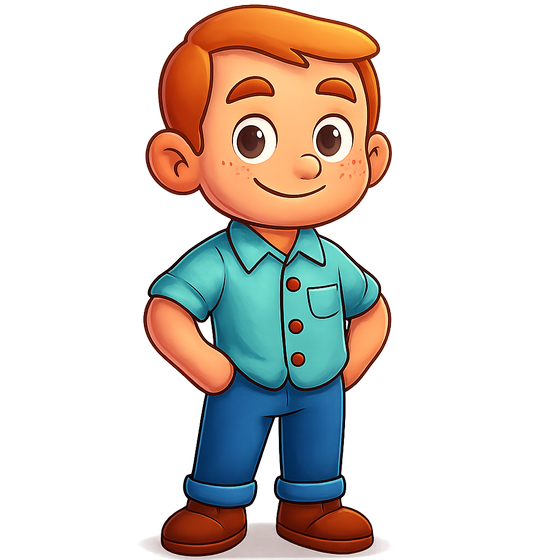
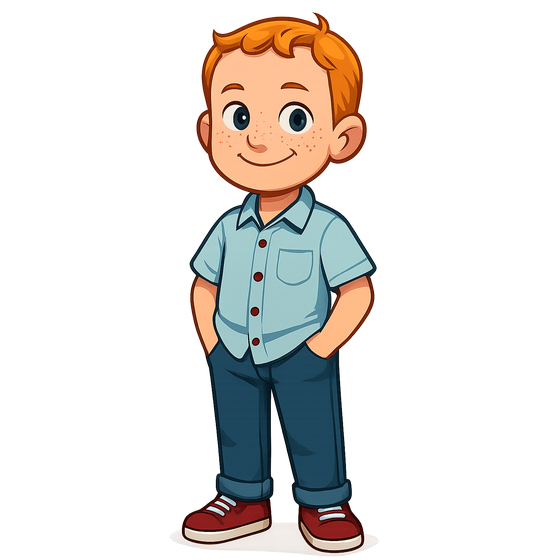
RE-APPLY onto fresh main: map grounding, single Victory CONTINUE, title/rest de-emoji, premium villains, Cal regen (#105)
Recovers the second half of my session work that didn't make it into Neo's reconciliation
(cutscenes intentionally excluded — parent is doing video). Re-applied onto current main,
reconciled with Neo's overlapping changes:
- MAP: FRIEND_SIDE + FRIEND_POS so captive friends stand on grass, not over the river; Cal on
  the painted path LEFT of the bridge (route recalibration was already in main).
- VICTORY: collapse to ONE crafted-chevron CONTINUE button (drop the redundant CITY MAP), reusing
  Neo's #84/#97 play-order nextM; rescued ally shows as the PAINTED raster, ally-only (no hero).
- TITLE/REST: de-emoji PLAY (▶) + "One more mission" (🎯) via crafted play/chevron uiIcons.
- ART: premium Vixen/dragon repaint + photo-accurate Cal regeneration.
Branched off origin/main (no longer stale); tests 115/121/17 green; render-gated.

diff --git a/game.js b/game.js
@@ -600,6 +600,7 @@ document.body.classList.add("scene-ambient");     /* the boot title screen is am
 /* ONE primary action: PLAY → brand-new player gets the origin cutscene→scan→map; a returning
    player resumes on the map. (Replaces START + the duplicate CONTINUE — both only called toMap.)
    Must stay the FIRST user gesture so Aud.pick() unlocks iOS audio. */
+{ const bp=$("btnPlay"); if(bp)bp.innerHTML=(typeof uiIcon==="function"?uiIcon("play",28):"")+" PLAY"; }   /* crafted play triangle, not ▶ */
 $("btnPlay").onclick=()=>{ Aud.pick(); if(!S.intro)startIntro(); else {Aud.play("welcome"); toMap();} };
 /* ---- player picker (select an existing player; add/remove is parent-only) ---- */
 function openPicker(){ paintPicker(); $("playerPicker").classList.add("on"); }
@@ -1533,8 +1534,13 @@ function showWin(firstTime){ show("scrWin");
   const rescuedKind = CUR.rescue ? (LEAGUE.find(t=>t.mid===CUR.id)||{}).kind : null;
   const ally = rescuedKind || (CUR.type==="fortress" ? (currentAct()===2?"kendall":"leighton") : null);
   const allyEnt = ally ? LEAGUE.find(t=>t.kind===ally) : null;
-  $("winHero").innerHTML=heroMarquee(170)+
-    (ally?`<svg viewBox="-32 -36 64 80" width="98" style="vertical-align:bottom;">${allyFace(ally)}<text y="42" text-anchor="middle" font-family="Bangers" font-size="12" fill="#ffc93c">${allyEnt?allyEnt.name:""}</text></svg>`:"");
+  /* On a RESCUE win it's the freed ALLY speaking, so show JUST the ally (their PAINTED raster + name) —
+     no hero Teddy beside them (also removes the hero/ally size mismatch). Every other win shows the hero. */
+  if(ally){
+    const allyArt = (typeof allyRasterImg==="function" && allyRasterImg(ally,200))
+        || `<svg viewBox="-32 -36 64 80" width="150">${allyFace(ally)}</svg>`;
+    $("winHero").innerHTML=`<span class="winally">${allyArt}<span class="winallyname">${allyEnt?allyEnt.name:""}</span></span>`;
+  } else { $("winHero").innerHTML=heroMarquee(170); }
   $("winHero").className="winpose"+(1+Math.floor(Math.random()*4));   /* random victory celebration */
   const gear=GEAR_AT[CUR.id];
   $("winGear").innerHTML=(firstTime&&gear)?`<div class="gearbadge">NEW GEAR: ${gear}</div>`:"";
@@ -1555,27 +1561,24 @@ function showWin(firstTime){ show("scrWin");
   if(__rankedUp){ ids.unshift("rankup"); setTimeout(()=>{ confetti(80); flashScreen("rgba(255,210,90,.4)"); if(typeof Sfx!=="undefined"&&Sfx.rankup)Sfx.rankup(); },340);
     $("winGear").innerHTML='<div class="gearbadge">⭐ RANK UP — '+heroProgress().name+'!</div>'+$("winGear").innerHTML; __rankedUp=false; }
   narrate("win",$("winText"),ids);
-  if(CUR.type==="fortress"){
-    $("btnWinNext").style.display="none";
-    if(currentAct()===2){   /* Act-2 finale = the END → the beat-7 homecoming ending (STORY.md §F) */
-      $("btnWinMap").textContent="CONTINUE ➜";
-      $("btnWinMap").onclick=()=>startHomecoming();
-    } else {                /* Act-1 finale → the Act-1→Act-2 handoff cutscene */
-      $("btnWinMap").textContent="CONTINUE ➜";
-      $("btnWinMap").onclick=()=>startInterlude();
-    }
+  /* ONE button: CONTINUE (parent — the old CITY MAP button was redundant; the map is on the nav).
+     Crafted chevron, never an emoji. Carries the adventure forward. */
+  const setContinue=(fn)=>{ const b=$("btnWinMap"); if(!b)return;
+    b.innerHTML='CONTINUE '+(typeof uiIcon==="function"?uiIcon("chevron",26):""); b.className="btn cta"; b.onclick=fn; };
+  { const bn=$("btnWinNext"); if(bn)bn.style.display="none"; }   /* legacy 2nd button removed from the win screen */
+  if(CUR.type==="fortress"){   /* finale → the story cutscene (Act-1 handoff / Act-2 homecoming ending) */
+    setContinue(currentAct()===2 ? startHomecoming : startInterlude);
     return; }
-  $("btnWinMap").textContent="CITY MAP";
-  /* #84: NEXT follows PLAY ORDER (zones 107/108 append in the 100-range but play AFTER 104), not flat id
-     order — else NEXT could drop the child into an out-of-sequence / locked mission. Mirrors playNextMission(). */
+  /* normal win → next uncompleted level in PLAY ORDER (#84/#97 nextM), honouring the rest gate;
+     falls back to the map when the act is cleared. */
   const pm=playMissions(currentAct()), pix=pm.findIndex(x=>x.id===CUR.id), nextM=(pix>=0)?pm[pix+1]:null;
-  $("btnWinNext").style.display=nextM?"inline-block":"none";
-  $("btnWinNext").onclick=()=>{ if(!nextM)return; if(S.session.count>=3&&!S.session.rest){S.session.rest=true;save();showRest(nextM);} else startMission(nextM); };
-  $("btnWinMap").onclick=()=>{ if(S.session.count>=3&&!S.session.rest){S.session.rest=true;save();showRest(null);} else toMap(); }; }
+  setContinue(()=>{ if(S.session.count>=3 && !S.session.rest){ S.session.rest=true; save(); showRest(nextM); }
+    else if(nextM) startMission(nextM); else toMap(); }); }
 function showRest(nextM){ show("scrRest");
   $("restHero").innerHTML=heroMarquee(160);
   narrate("rest",$("restText"),["rest1","rest2"]);
   $("btnRestDone").onclick=()=>navGo(toMap);   /* Done resting → the MAP (home), not the bare Title (NAV-PLAN slice 4) */
+  { const bm=$("btnRestMore"); if(bm)bm.innerHTML=(typeof uiIcon==="function"?uiIcon("play",22):"")+" One more mission"; }   /* crafted play icon, not 🎯 */
   $("btnRestMore").onclick=()=>{ nextM?startMission(nextM):toMap(); }; }
 
 /* ---------------- HERO BASE ---------------- */

diff --git a/art.js b/art.js
@@ -674,7 +674,11 @@ const UICONS={
   /* power BOLT — the HUD power/stars counter glyph (replaces the ⚡ emoji) */
   bolt:(s=22)=>{const u="ui"+(__huid++);return `<svg viewBox="0 0 100 100" width="${s}" height="${s}" aria-hidden="true"><defs><linearGradient id="${u}b" x1="0" y1="0" x2="0" y2="1"><stop offset="0" stop-color="#fff3b0"/><stop offset=".5" stop-color="#ffd23a"/><stop offset="1" stop-color="#f0a81e"/></linearGradient></defs><path d="M58 6 L24 54 H46 L40 94 L78 40 H54 Z" fill="url(#${u}b)" stroke="${PI_INK}" stroke-width="5" stroke-linejoin="round"/><path d="M54 14 L34 50 H50" stroke="#fff" stroke-width="4" opacity=".5" fill="none" stroke-linecap="round"/></svg>`},
   /* CLOCK — daily-practice meter glyph (replaces any ⏰ emoji); friendly round face + hands */
-  clock:(s=22)=>{const u="ui"+(__huid++);return `<svg viewBox="0 0 100 100" width="${s}" height="${s}" aria-hidden="true"><defs><radialGradient id="${u}c" cx=".42" cy=".34" r=".7"><stop offset="0" stop-color="#eaf7ff"/><stop offset="1" stop-color="#9fd6f5"/></radialGradient></defs><rect x="43" y="5" width="14" height="10" rx="3" fill="${PI_INK}"/><circle cx="50" cy="55" r="40" fill="url(#${u}c)" stroke="${PI_INK}" stroke-width="6"/><circle cx="50" cy="55" r="40" fill="none" stroke="#fff" stroke-width="2.5" opacity=".5"/><path d="M50 55 V31" stroke="${PI_INK}" stroke-width="6.5" stroke-linecap="round"/><path d="M50 55 L69 62" stroke="${PI_INK}" stroke-width="6.5" stroke-linecap="round"/><circle cx="50" cy="55" r="5" fill="${PI_INK}"/></svg>`}
+  clock:(s=22)=>{const u="ui"+(__huid++);return `<svg viewBox="0 0 100 100" width="${s}" height="${s}" aria-hidden="true"><defs><radialGradient id="${u}c" cx=".42" cy=".34" r=".7"><stop offset="0" stop-color="#eaf7ff"/><stop offset="1" stop-color="#9fd6f5"/></radialGradient></defs><rect x="43" y="5" width="14" height="10" rx="3" fill="${PI_INK}"/><circle cx="50" cy="55" r="40" fill="url(#${u}c)" stroke="${PI_INK}" stroke-width="6"/><circle cx="50" cy="55" r="40" fill="none" stroke="#fff" stroke-width="2.5" opacity=".5"/><path d="M50 55 V31" stroke="${PI_INK}" stroke-width="6.5" stroke-linecap="round"/><path d="M50 55 L69 62" stroke="${PI_INK}" stroke-width="6.5" stroke-linecap="round"/><circle cx="50" cy="55" r="5" fill="${PI_INK}"/></svg>`},
+  /* CHEVRON — forward "continue/next" arrow (replaces ➜); inherits the button's text colour */
+  chevron:(s=22)=>`<svg viewBox="0 0 100 100" width="${s}" height="${s}" aria-hidden="true" style="vertical-align:-4px"><path d="M38 20 L70 50 L38 80" fill="none" stroke="currentColor" stroke-width="13" stroke-linecap="round" stroke-linejoin="round"/></svg>`,
+  /* PLAY — solid forward triangle (replaces ▶ on the title/rest buttons); inherits text colour */
+  play:(s=22)=>`<svg viewBox="0 0 100 100" width="${s}" height="${s}" aria-hidden="true" style="vertical-align:-4px"><path d="M30 20 L80 50 L30 80 Z" fill="currentColor" stroke="currentColor" stroke-width="10" stroke-linejoin="round"/></svg>`
 };
 function uiIcon(k,s){ return (UICONS[k]?UICONS[k](s):""); }
 

diff --git a/map.js b/map.js
@@ -163,6 +163,15 @@ function mapBanner(x,y,st,zi){
     <rect x="${x-34}" y="${y-76}" width="68" height="96" fill="transparent"/>
   </g>`;
 }
+/* which side of each node is WALKABLE GRASS (away from the river), so a captive friend is grounded on
+   land — never floating over water. Per act, indexed by node (play order); +1 = right, -1 = left. */
+const FRIEND_SIDE={
+  1:[ 1, 1, 1, 1,-1, 1, 1,-1, 1],   // Act 1: idx4 left of the bridge, idx7 onto the castle ledge
+  2:[-1,-1,-1, 1, 1, 1, 1,-1]       // Act 2: idx0-2 left bank, idx3-6 right bank, idx7 onto the keep path
+};
+/* exact-placement overrides (act → node idx → [x,y] translate) when the side-fan would land a friend
+   awkwardly. Cal's zone node sits at the river crossing → put him on the open grass LEFT of the bridge. */
+const FRIEND_POS={ 2:{ 3:[742,706] } };
 /* CAPTIVE friends waiting AT the zone where they're freed (V2 scale, 1536-space). Once a friend
    is freed (allyFreed) they leave the map — they're in your league now, not stranded on the trail. */
 function mapAlliesV2(a, zs, spots){
@@ -176,10 +185,13 @@ function mapAlliesV2(a, zs, spots){
     const zi=zs.findIndex(z=>z.id===m.z); if(zi<0||!spots[zi]) return;
     (byZi[zi]=byZi[zi]||[]).push(r); });
   let out="";
+  const sides=FRIEND_SIDE[a], posOv=FRIEND_POS[a];
   Object.keys(byZi).forEach(zik=>{ const zi=+zik, [x,y]=spots[zi], list=byZi[zi];
-    const dir = x<768?1:-1;                                     // fan toward the open side of the node
-    list.forEach((r,i)=>{ const fx=x+dir*(60+i*46), fy=y+2+((i%2)?-12:8);
-      out+=`<g class="mfriend" pointer-events="none" transform="translate(${fx} ${fy}) scale(.7)">${allyMapFig(r.kind, false)}</g>`; }); });
+    const dir = (sides && sides[zi]!=null) ? sides[zi] : (x<768?1:-1);   // push onto grass, not over the river
+    const pos = posOv && posOv[zi];
+    list.forEach((r,i)=>{ const fx = pos ? pos[0]+i*46 : x+dir*(56+i*46),
+                          fy = pos ? pos[1] : y+6+((i%2)?-12:8);          // feet just below-beside the banner, on the path
+      out+=`<g class="mfriend" pointer-events="none" transform="translate(${fx} ${fy}) scale(.66)">${allyMapFig(r.kind, false)}</g>`; }); });
   return out;
 }
 function mapPaintV2(a){

diff --git a/styles.css b/styles.css
@@ -579,6 +579,12 @@ body.calm .gembox>svg,body.calm .trophy,body.calm .gembox.mastered::after{animat
 @keyframes ctaFloat{0%,100%{transform:translateY(0)}50%{transform:translateY(-5px)}}
 .btn.cta:active{animation:none;}
 body.calm .btn.cta{animation:none;}
+#scrWin .btn.cta svg{ margin-left:6px; }
+/* rescued-ally painted figure on the Victory screen (raster, not the old SVG face) + name beneath */
+.winally{ display:inline-flex; flex-direction:column; align-items:center; vertical-align:bottom; }
+.winally img{ display:block; filter:drop-shadow(0 7px 6px rgba(0,0,0,.45)); }
+.winallyname{ font-family:'Bangers',cursive; color:var(--gold); font-size:16px; margin-top:-4px; letter-spacing:.04em;
+  -webkit-text-stroke:2px var(--ink); paint-order:stroke; }
 
 /* glass HUD chips + round buttons */
 .chip,.roundbtn{backdrop-filter:blur(10px);-webkit-backdrop-filter:blur(10px);background:rgba(16,10,38,.5);

diff --git a/index.html b/index.html
@@ -85,7 +85,7 @@
     <div class="comic title-logo">SUPER TEDDY</div>
     <div class="sub comic" style="letter-spacing:.12em;">A HERO READS. A HERO RISES.</div>
     <div id="titleHero"></div>
-    <button class="btn cta" id="btnPlay">▶ PLAY</button>
+    <button class="btn cta" id="btnPlay">PLAY</button>
     <button class="btn ghost sm" id="btnPlayer" style="font-size:clamp(16px,2.4vw,22px);"><span id="playerName">Teddy</span> — switch</button>
   </div>
 
@@ -368,7 +368,7 @@
     <div class="bubble" id="restText"><span></span><div class="ear" data-ear="rest"></div></div>
     <div style="display:flex;gap:14px;">
       <button class="btn" id="btnRestDone">😴 REST</button>
-      <button class="btn ghost" id="btnRestMore">🎯 One more mission</button>
+      <button class="btn ghost" id="btnRestMore">One more mission</button>
     </div>
   </div>
 
